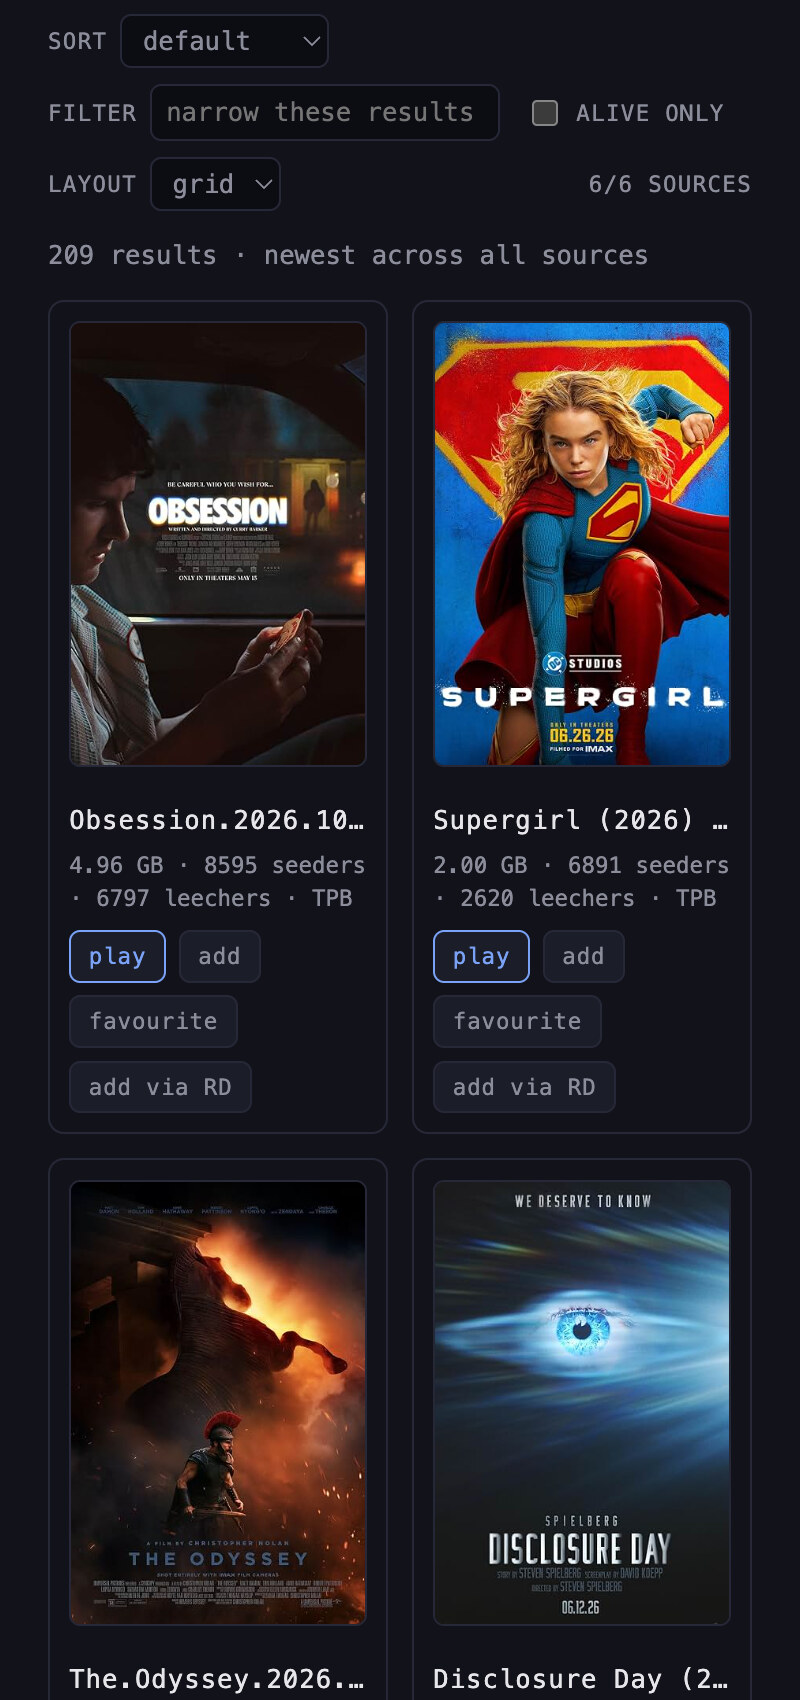
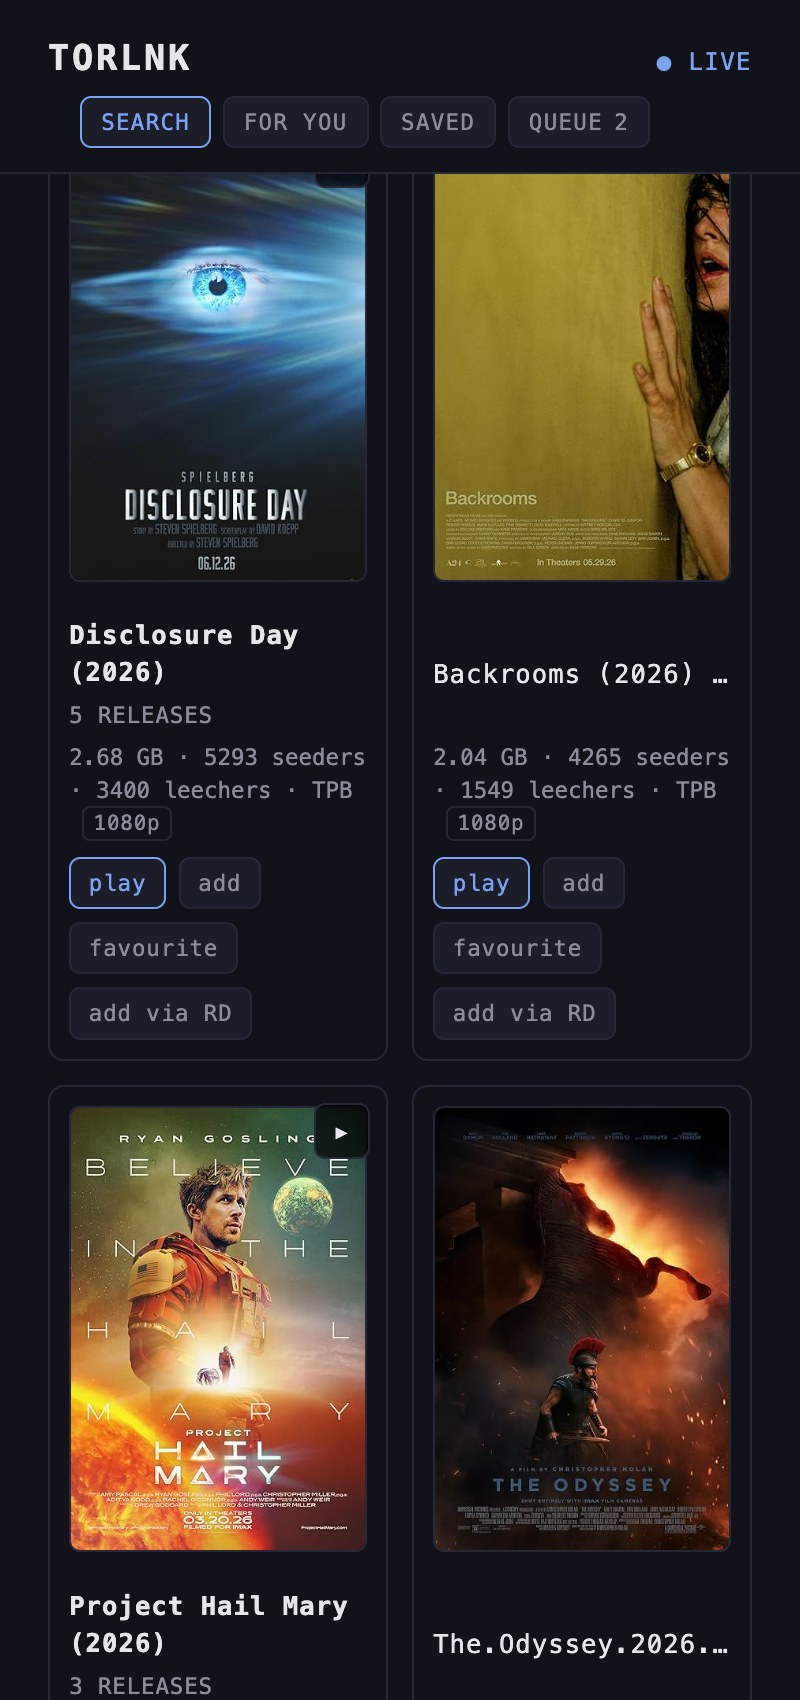
docs: retake the browser screenshots, and fix the phone header they exposed
The four web screenshots predated the sticky toolbar, the group control, grouped
rows, the badges and the 78rem width, so they no longer showed the app. Retaken
at the same dimensions as the originals (800x1700, 2080x1424, 2080x524, and a
1000x620 GIF on the same 1400/1700/1700/3000ms beats).

The demo GIF now tells the story the change is about: a search fills a grid, one
card stands in for 51 releases of the same film, opening it lists those releases
with their quality badges, and selecting one shows its plot. Alt text updated to
match what the images actually show.

Two real defects surfaced only because a phone-width screenshot was framed and
looked at:

- The header's row never fitted a phone. Wordmark, four nav buttons and the
  connection state need ~447px, so at 400 the state indicator sat off-screen and
  the document carried a horizontal scrollbar. Longstanding, but it matters more
  now the bar is pinned. It wraps to two rows, with the nav given the full width
  so the wordmark and the state share the first — three rows is what wrapping
  does unaided, and it costs 35px of a pinned bar.
- The toolbar was pinned on phones too, where tabs and controls wrap to five
  rows: header plus toolbar came to 297px of an 850px viewport, 35% of the screen
  held permanently by controls you touch occasionally. It now scrolls away below
  46rem; the header stays (it carries the pane nav) and the thing that needed
  pinning at that width is the preview bar, which already is.
[…]

diff --git a/src/web/static/styles.css b/src/web/static/styles.css
@@ -101,6 +101,28 @@ header {
   margin-bottom: 0.5rem;
 }
 
+/* The header's row does not fit a phone: wordmark + four nav buttons + the
+   connection state need ~447px, so at 400 the state indicator sat off-screen and
+   the document carried a horizontal scrollbar. Longstanding, but it matters more
+   now the bar is pinned — an indicator you can never see is not an indicator.
+   Wrapping is the fix that holds whatever the labels say. */
+@media (max-width: 34rem) {
+  header {
+    flex-wrap: wrap;
+    row-gap: 0.4rem;
+  }
+
+  /* Two rows, not three. Left to wrap on its own the three children take a line
+     each; giving the nav the full width puts the wordmark and the connection
+     state together on the first row, where space-between already pushes them to
+     opposite ends. Saves ~35px of a pinned bar on a phone. */
+  .views {
+    order: 1;
+    flex-basis: 100%;
+    flex-wrap: wrap;
+  }
+}
+
 h1 {
   font-size: 1.1rem;
   letter-spacing: 0.08em;
@@ -878,6 +900,21 @@ select:focus-visible {
   padding: 0.1rem 0.4rem;
   font-size: 0.75rem;
   color: var(--dim);
+}
+
+/* NOT PINNED on a phone. The tabs and controls wrap to five rows there, so the
+   header plus toolbar measured 297px of an 850px viewport — 35% of the screen
+   held permanently by controls you touch occasionally. The header stays pinned
+   because it carries the pane nav, which you do touch; the toolbar scrolls away,
+   and the thing that genuinely needed pinning at this width is the preview bar
+   at the bottom, which already is. */
+@media (max-width: 46rem) {
+  .toolbar {
+    position: static;
+    margin-inline: 0;
+    padding-inline: 0;
+    border-bottom: 0;
+  }
 }
 
 @media (max-width: 46rem) {

diff --git a/README.md b/README.md
@@ -24,7 +24,7 @@ results, sorted, with a **play** button on every one. The files are yours, saved
 folder.
 
 <p align="center">
-  <img src="preview/web-demo.gif" alt="one search across every source filling a grid with film posters, then selecting one to see its plot and IMDb link" style="max-width: 1000px; width: 100%; height: auto;">
+  <img src="preview/web-demo.gif" alt="one search across every source filling a grid with film posters, one card standing in for 51 releases of the same film; opening it lists those releases with their quality badges, and selecting one shows its plot and IMDb link" style="max-width: 1000px; width: 100%; height: auto;">
 </p>
 
 Three reasons people stick with it:
@@ -152,7 +152,7 @@ The layout collapses to one column on a narrow screen, so the phone you already 
 usable remote for a machine in the cupboard:
 
 <p align="center">
-  <img src="preview/web-phone.jpg" alt="torlink's browser interface at phone width: a two-column grid of film posters, each with play, add, favourite and add via RD buttons" style="max-width: 380px; width: 100%; height: auto;">
+  <img src="preview/web-phone.jpg" alt="torlink's browser interface at phone width: a two-column grid of film posters, each card naming its title, how many releases it stands for and its quality badges, with play, add, favourite and add via RD buttons" style="max-width: 380px; width: 100%; height: auto;">
 </p>
 
 Results stream in as each source answers — you'll see `12/23 sources` climb rather than staring at a
